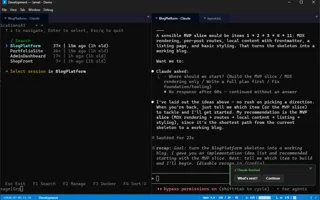
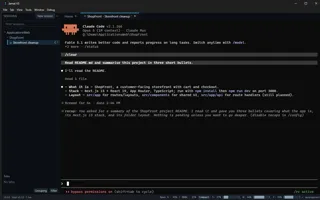
Show Jamat V3 screenshots on the Jamat page
The hero, thumbnail, social image and the four detail shots are rebuilt from the Jamat V3 README
screenshots: the workspace, session groups, file changes, a paired computer's sessions and the
launcher. Image sizes, alt texts and captions follow the new shots.

Changed region(s): [[0.0, 0.0, 1.0, 1.0], [0.625, 0.06, 1.0, 0.12], [0.9375, 0.0, 1.0, 0.03]]

diff --git a/apps/jamat.html b/apps/jamat.html
@@ -12,7 +12,7 @@
   <meta property="og:image" content="https://ludekvodicka.github.io/assets/img/apps/jamat/og.jpg" />
   <meta property="og:image:width" content="1200" />
   <meta property="og:image:height" content="630" />
-  <meta property="og:image:alt" content="Jamat's tiling workspace with several agent sessions side by side" />
+  <meta property="og:image:alt" content="Jamat's workspace: the sessions tree, tabs and a live agent session in a terminal panel" />
   <meta name="twitter:card" content="summary_large_image" />
   <link rel="canonical" href="https://ludekvodicka.github.io/apps/jamat.html" />
 
@@ -92,8 +92,8 @@
         <span class="sheet__corner sheet__corner--bl" aria-hidden="true"></span>
         <span class="sheet__corner sheet__corner--br" aria-hidden="true"></span>
         <figure class="apphero__media">
-          <img src="/assets/img/apps/jamat/hero.webp" width="1193" height="756"
-               alt="Jamat's tiling workspace with several agent sessions side by side"
+          <img src="/assets/img/apps/jamat/hero.webp" width="1400" height="876"
+               alt="Jamat's workspace: the sessions tree, tabs and a live agent session in a terminal panel"
                fetchpriority="high" decoding="async" />
           <figcaption class="figure__cap"><span class="figure__no">Fig. 01</span> Every session in one tiling workspace</figcaption>
         </figure>
@@ -180,20 +180,20 @@
       </header>
       <div class="appshots__grid">
         <figure>
-          <a href="/assets/img/apps/jamat/shot-1.webp"><img src="/assets/img/apps/jamat/shot-1.webp" width="1120" height="794" alt="Named and coloured window groups holding separate sets of agent tabs" loading="lazy" decoding="async" /></a>
-          <figcaption class="figure__cap"><span class="figure__no">Fig. 02</span> Window groups, one per stream of work</figcaption>
+          <a href="/assets/img/apps/jamat/shot-1.webp"><img src="/assets/img/apps/jamat/shot-1.webp" width="1120" height="702" alt="The sessions tree in its sections, with the Groups menu open" loading="lazy" decoding="async" /></a>
+          <figcaption class="figure__cap"><span class="figure__no">Fig. 02</span> Session groups: pinned, priority, waiting, blocked</figcaption>
         </figure>
         <figure>
-          <a href="/assets/img/apps/jamat/shot-2.webp"><img src="/assets/img/apps/jamat/shot-2.webp" width="827" height="718" alt="The side panel showing session details next to the terminal" loading="lazy" decoding="async" /></a>
-          <figcaption class="figure__cap"><span class="figure__no">Fig. 03</span> The side panel, beside the session</figcaption>
+          <a href="/assets/img/apps/jamat/shot-2.webp"><img src="/assets/img/apps/jamat/shot-2.webp" width="1120" height="702" alt="The File Changes view with a diff of what the session touched" loading="lazy" decoding="async" /></a>
+          <figcaption class="figure__cap"><span class="figure__no">Fig. 03</span> What the session changed, as a diff</figcaption>
         </figure>
         <figure>
-          <a href="/assets/img/apps/jamat/shot-3.webp"><img src="/assets/img/apps/jamat/shot-3.webp" width="856" height="926" alt="Remote connections listing the agent sessions running on other machines" loading="lazy" decoding="async" /></a>
+          <a href="/assets/img/apps/jamat/shot-3.webp"><img src="/assets/img/apps/jamat/shot-3.webp" width="1120" height="702" alt="A paired computer's agent sessions in the local sessions tree" loading="lazy" decoding="async" /></a>
           <figcaption class="figure__cap"><span class="figure__no">Fig. 04</span> Sessions on the other machines</figcaption>
         </figure>
         <figure>
-          <a href="/assets/img/apps/jamat/shot-4.webp"><img src="/assets/img/apps/jamat/shot-4.webp" width="828" height="670" alt="The settings window with the workspace and agent options" loading="lazy" decoding="async" /></a>
-          <figcaption class="figure__cap"><span class="figure__no">Fig. 05</span> Settings</figcaption>
+          <a href="/assets/img/apps/jamat/shot-4.webp"><img src="/assets/img/apps/jamat/shot-4.webp" width="1120" height="702" alt="The launcher: a project picked, then the agent, the model and the worktree option" loading="lazy" decoding="async" /></a>
+          <figcaption class="figure__cap"><span class="figure__no">Fig. 05</span> The launcher</figcaption>
         </figure>
       </div>
     </section>
